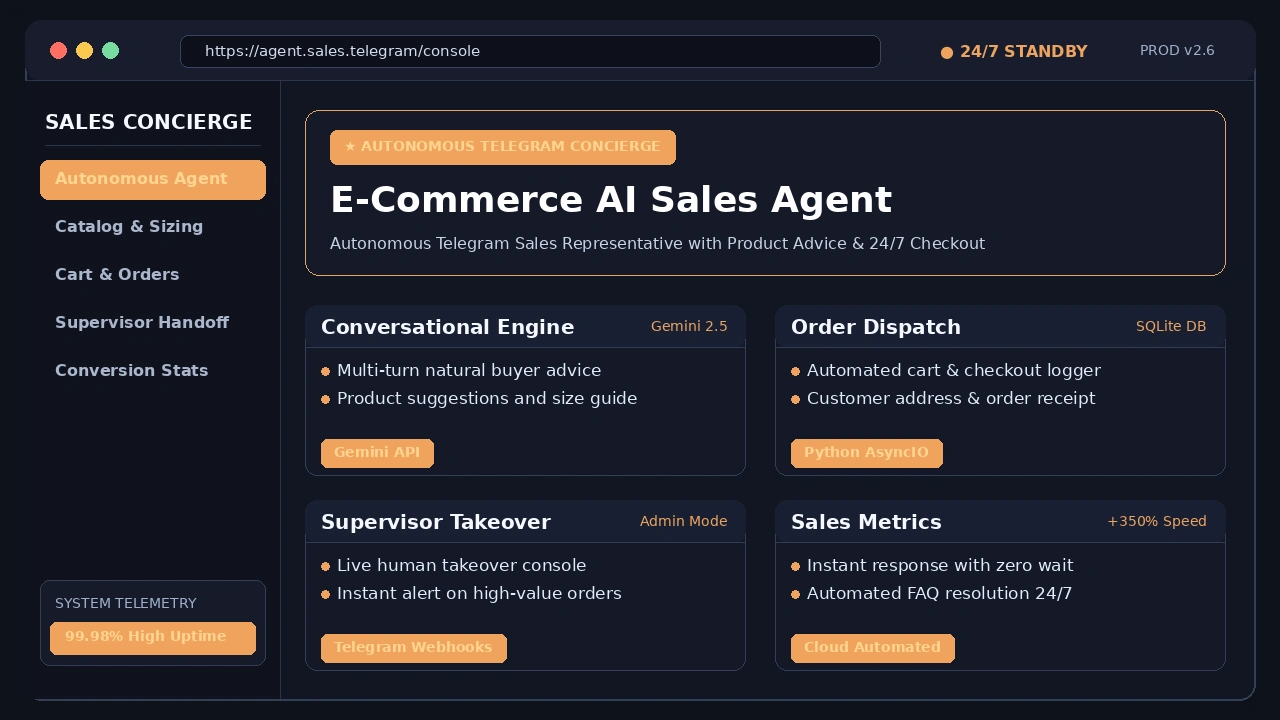
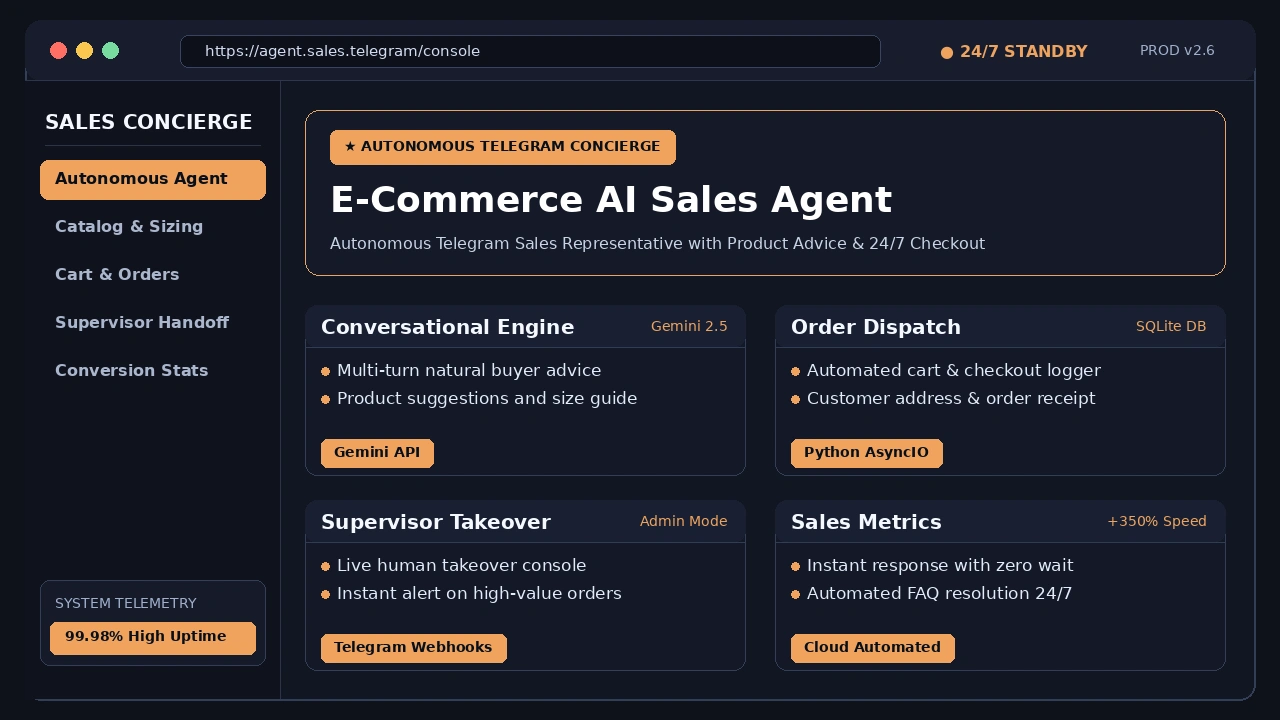
style(posters): set bold black text inside all colorful pills and boxes for maximum contrast

diff --git a/make_clean_pc_posters.py b/make_clean_pc_posters.py
@@ -22,12 +22,8 @@ def make_perfect_poster(filename, app_name, url_bar, accent_color, hero_tag, her
     f_nav = ImageFont.truetype(font_bold, 16)
     f_browser = ImageFont.truetype(font_reg, 15)
 
-    # Lighter soft text color derived from accent
-    accent_text = (
-        min(255, accent_color[0] + 50),
-        min(255, accent_color[1] + 50),
-        min(255, accent_color[2] + 50)
-    )
+    # Black text for high-contrast, ultra-crisp readability inside all colorful boxes
+    box_text_black = (10, 15, 24)
 
     # Outer Browser / OS Window Frame
     draw.rounded_rectangle([(25, 20), (1255, 700)], radius=16, fill=(18, 22, 34, 255), outline=(50, 62, 88, 255), width=2)
@@ -61,9 +57,9 @@ def make_perfect_poster(filename, app_name, url_bar, accent_color, hero_tag, her
     y_nav = 165
     for idx, (label, is_active) in enumerate(sidebar_items):
         if is_active:
-            # Active sidebar item: Soft tinted frosted glass with delicate border & light accent text
-            draw.rounded_rectangle([(40, y_nav - 5), (265, y_nav + 34)], radius=8, fill=(accent_color[0], accent_color[1], accent_color[2], 42), outline=(accent_color[0], accent_color[1], accent_color[2], 130), width=1)
-            draw.text((55, y_nav + 4), label, fill=accent_text, font=f_nav)
+            # Active sidebar item: Colorful box with deep BLACK text!
+            draw.rounded_rectangle([(40, y_nav - 5), (265, y_nav + 34)], radius=8, fill=accent_color)
+            draw.text((55, y_nav + 4), label, fill=box_text_black, font=f_nav)
         else:
             draw.text((55, y_nav + 4), label, fill=(170, 182, 205), font=f_nav)
         y_nav += 48
@@ -72,15 +68,15 @@ def make_perfect_poster(filename, app_name, url_bar, accent_color, hero_tag, her
     draw.rounded_rectangle([(40, 580), (265, 665)], radius=10, fill=(22, 27, 42, 255), outline=(50, 62, 88, 255), width=1)
     draw.text((55, 595), "SYSTEM TELEMETRY", fill=(160, 175, 205), font=f_sm)
     
-    # Status Pill
-    draw.rounded_rectangle([(50, 622), (255, 654)], radius=6, fill=(accent_color[0], accent_color[1], accent_color[2], 38), outline=(accent_color[0], accent_color[1], accent_color[2], 120), width=1)
-    draw.text((65, 628), "99.98% High Uptime", fill=accent_text, font=f_pill)
+    # Status Pill: Colorful box with deep BLACK text!
+    draw.rounded_rectangle([(50, 622), (255, 654)], radius=6, fill=accent_color)
+    draw.text((65, 628), "99.98% High Uptime", fill=box_text_black, font=f_pill)
 
     # Main Workspace Hero Card (width: 920px: 305 to 1225)
     hero_box_x1, hero_box_x2 = 305, 1225
     draw.rounded_rectangle([(hero_box_x1, 110), (hero_box_x2, 275)], radius=14, fill=(21, 26, 40, 255), outline=(accent_color[0], accent_color[1], accent_color[2], 110), width=1)
     
-    # Top Tag Pill
+    # Top Tag Pill: Colorful box with deep BLACK text!
     pill_text = f"★ {hero_tag.upper()}"
     bbox_pill = draw.textbbox((0, 0), pill_text, font=f_pill)
     text_w = bbox_pill[2] - bbox_pill[0]
@@ -89,8 +85,8 @@ def make_perfect_poster(filename, app_name, url_bar, accent_color, hero_tag, her
     pill_x2 = pill_x1 + text_w + 28
     pill_y2 = pill_y1 + 34
 
-    draw.rounded_rectangle([(pill_x1, pill_y1), (pill_x2, pill_y2)], radius=7, fill=(accent_color[0], accent_color[1], accent_color[2], 42), outline=(accent_color[0], accent_color[1], accent_color[2], 130), width=1)
-    draw.text((pill_x1 + 14, pill_y1 + 8), pill_text, fill=accent_text, font=f_pill)
+    draw.rounded_rectangle([(pill_x1, pill_y1), (pill_x2, pill_y2)], radius=7, fill=accent_color)
+    draw.text((pill_x1 + 14, pill_y1 + 8), pill_text, fill=box_text_black, font=f_pill)
 
     # Hero Title
     draw.text((330, 178), hero_title[0], fill=(255, 255, 255), font=f_title_main)
@@ -105,7 +101,6 @@ def make_perfect_poster(filename, app_name, url_bar, accent_color, hero_tag, her
     desc_w = bbox_desc[2] - bbox_desc[0]
     safe_desc = hero_desc
     if desc_w > max_desc_w:
-        # Ellipsis clamp if ever needed
         while desc_w > max_desc_w and len(safe_desc) > 5:
             safe_desc = safe_desc[:-2]
             bbox_desc = draw.textbbox((0, 0), safe_desc + "...", font=f_desc)
@@ -132,7 +127,7 @@ def make_perfect_poster(filename, app_name, url_bar, accent_color, hero_tag, her
         # Header text
         draw.text((c_tl[0] + 16, c_tl[1] + 10), c_title, fill=(245, 248, 255), font=f_card_title)
         
-        # Header right badge - precisely right-aligned with safe padding
+        # Header right badge
         bbox_b = draw.textbbox((0, 0), c_badge, font=f_sm)
         badge_w = bbox_b[2] - bbox_b[0]
         draw.text((c_br[0] - badge_w - 18, c_tl[1] + 13), c_badge, fill=accent_color, font=f_sm)
@@ -142,7 +137,6 @@ def make_perfect_poster(filename, app_name, url_bar, accent_color, hero_tag, her
         max_line_w = (c_br[0] - c_tl[0]) - 48
         for line in c_items:
             draw.ellipse([(c_tl[0] + 16, y_c + 7), (c_tl[0] + 24, y_c + 15)], fill=accent_color)
-            # Safe width clamp
             bbox_line = draw.textbbox((0, 0), line, font=f_body)
             lw = bbox_line[2] - bbox_line[0]
             safe_line = line
@@ -155,15 +149,15 @@ def make_perfect_poster(filename, app_name, url_bar, accent_color, hero_tag, her
             draw.text((c_tl[0] + 32, y_c), safe_line, fill=(225, 235, 250), font=f_body)
             y_c += 28
 
-        # Card bottom pill tag
+        # Card bottom pill tag: Colorful box with deep BLACK text!
         bbox_tag = draw.textbbox((0, 0), c_tag, font=f_tag)
         tag_w = bbox_tag[2] - bbox_tag[0]
         tag_x1 = c_tl[0] + 16
         tag_y1 = c_br[1] - 36
         tag_x2 = min(tag_x1 + tag_w + 26, c_br[0] - 16)
         tag_y2 = tag_y1 + 28
-        draw.rounded_rectangle([(tag_x1, tag_y1), (tag_x2, tag_y2)], radius=6, fill=(accent_color[0], accent_color[1], accent_color[2], 38), outline=(accent_color[0], accent_color[1], accent_color[2], 120), width=1)
-        draw.text((tag_x1 + 13, tag_y1 + 5), c_tag, fill=accent_text, font=f_tag)
+        draw.rounded_rectangle([(tag_x1, tag_y1), (tag_x2, tag_y2)], radius=6, fill=accent_color)
+        draw.text((tag_x1 + 13, tag_y1 + 5), c_tag, fill=box_text_black, font=f_tag)
 
     # Save outputs
     out1 = os.path.join("/home/didar-lahiry/Antigravity/Target Portfolio 2/demos", filename)
@@ -177,7 +171,7 @@ make_perfect_poster(
     filename="kishan-poster.webp",
     app_name="Kishan Dashboard",
     url_bar="kishan.agro.bd/live-market",
-    accent_color=(143, 211, 193), # Soft Mint / Sage (portfolio's --d-teal)
+    accent_color=(143, 211, 193), # Soft Mint / Sage
     hero_tag="National Agriculture Telemetry",
     hero_title=("Kishan AI Platform", "(কৃষাণ)"),
     hero_desc="Live DAM Market Price Intelligence, 7-Day Weather Forecasting & Bengali Voice Assistant",
@@ -202,7 +196,7 @@ make_perfect_poster(
     filename="letter-portfolio-poster.webp",
     app_name="Letter Desktop",
     url_bar="portfolio.didarlahiry.com/desk",
-    accent_color=(255, 158, 187), # Soft Pastel Pink (portfolio's signature --screen)
+    accent_color=(255, 158, 187), # Soft Pastel Pink
     hero_tag="Tactile Web Experience",
     hero_title=("Letter Portfolio Experience", ""),
     hero_desc="Interactive Envelope Metaphor, Tactile Stationery & 3D Desk Experience in Next.js",
@@ -227,7 +221,7 @@ make_perfect_poster(
     filename="sales-bot-poster.webp",
     app_name="Sales Concierge",
     url_bar="agent.sales.telegram/console",
-    accent_color=(240, 163, 94), # Soft Dusk Amber (portfolio's --d-amber)
+    accent_color=(240, 163, 94), # Soft Dusk Amber
     hero_tag="Autonomous Telegram Concierge",
     hero_title=("E-Commerce AI Sales Agent", ""),
     hero_desc="Autonomous Telegram Sales Representative with Product Advice & 24/7 Checkout",
